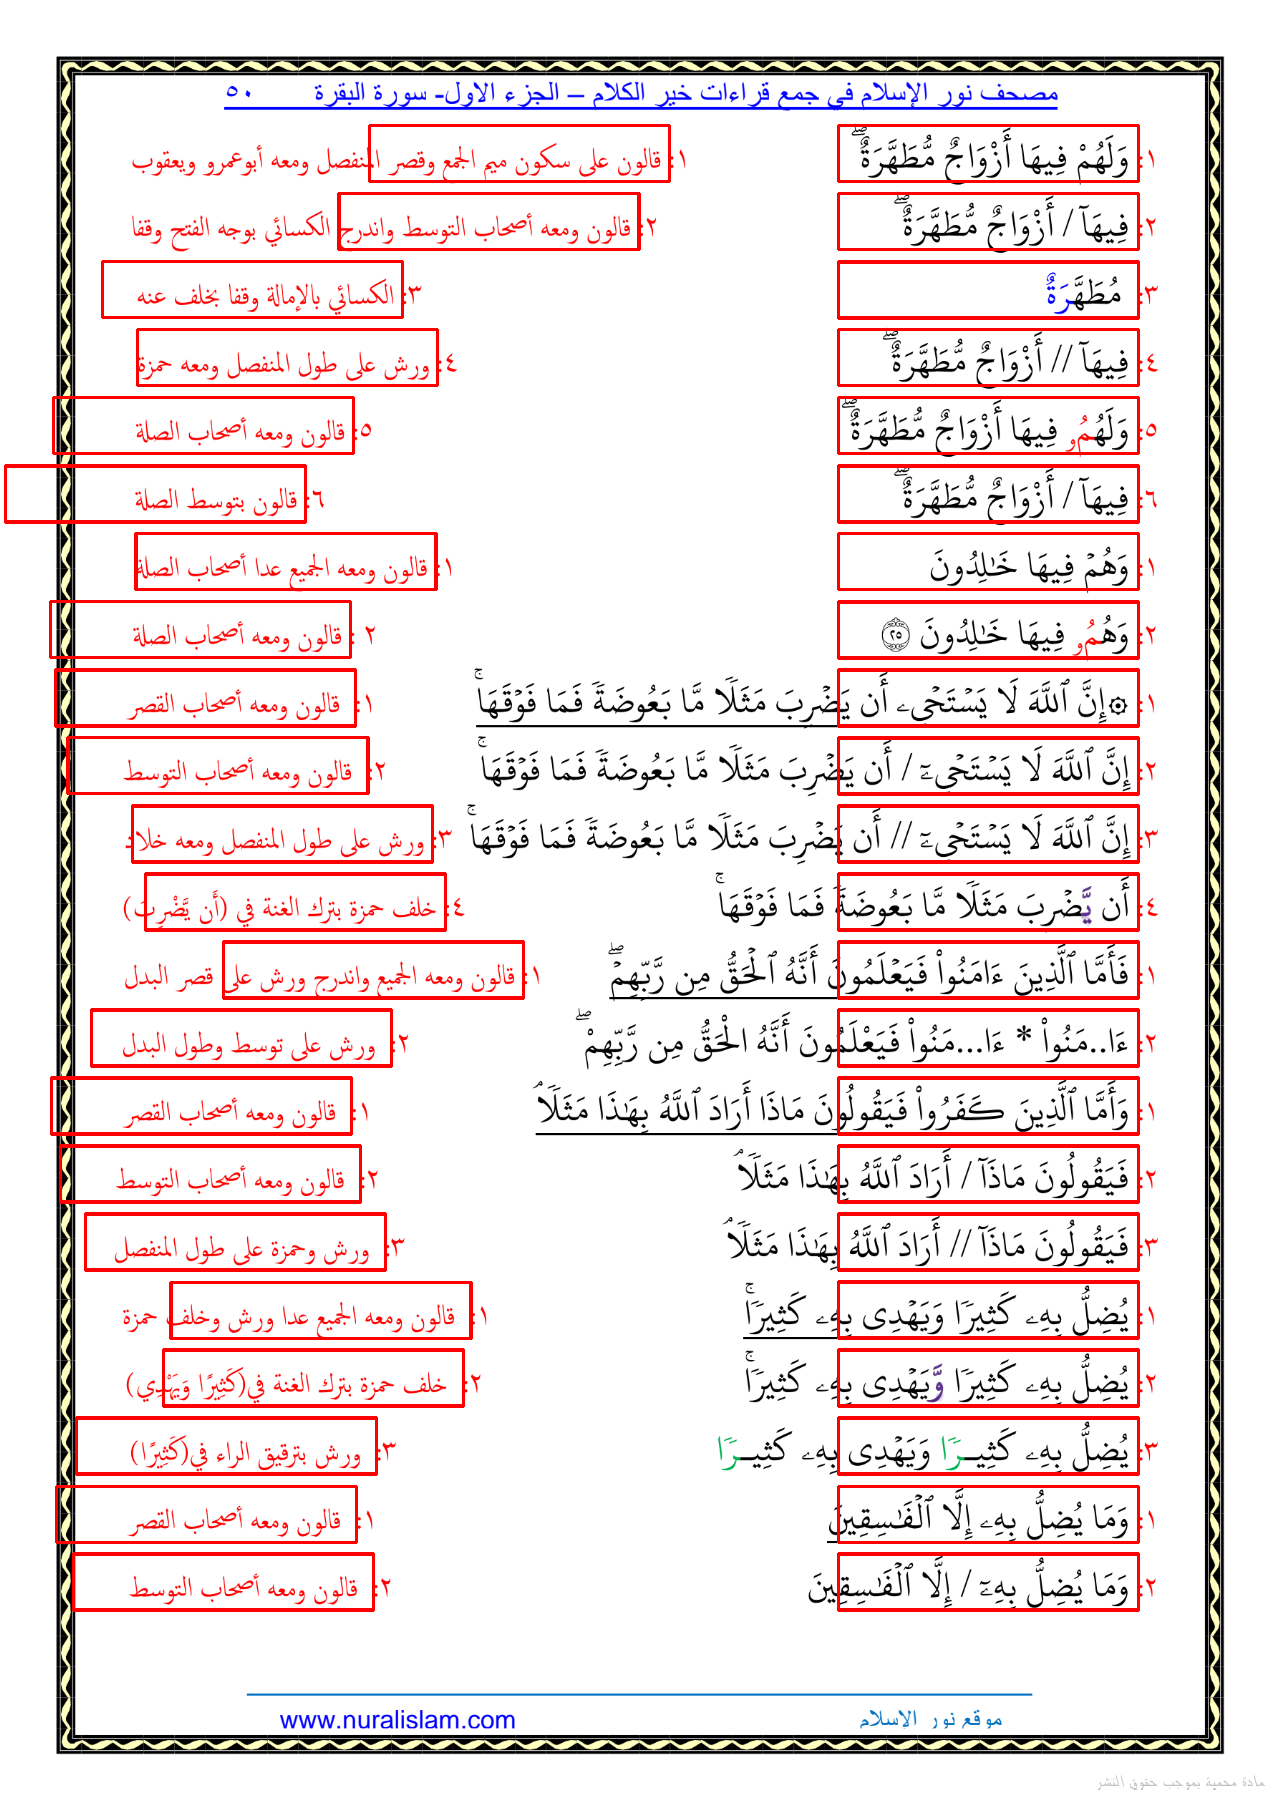
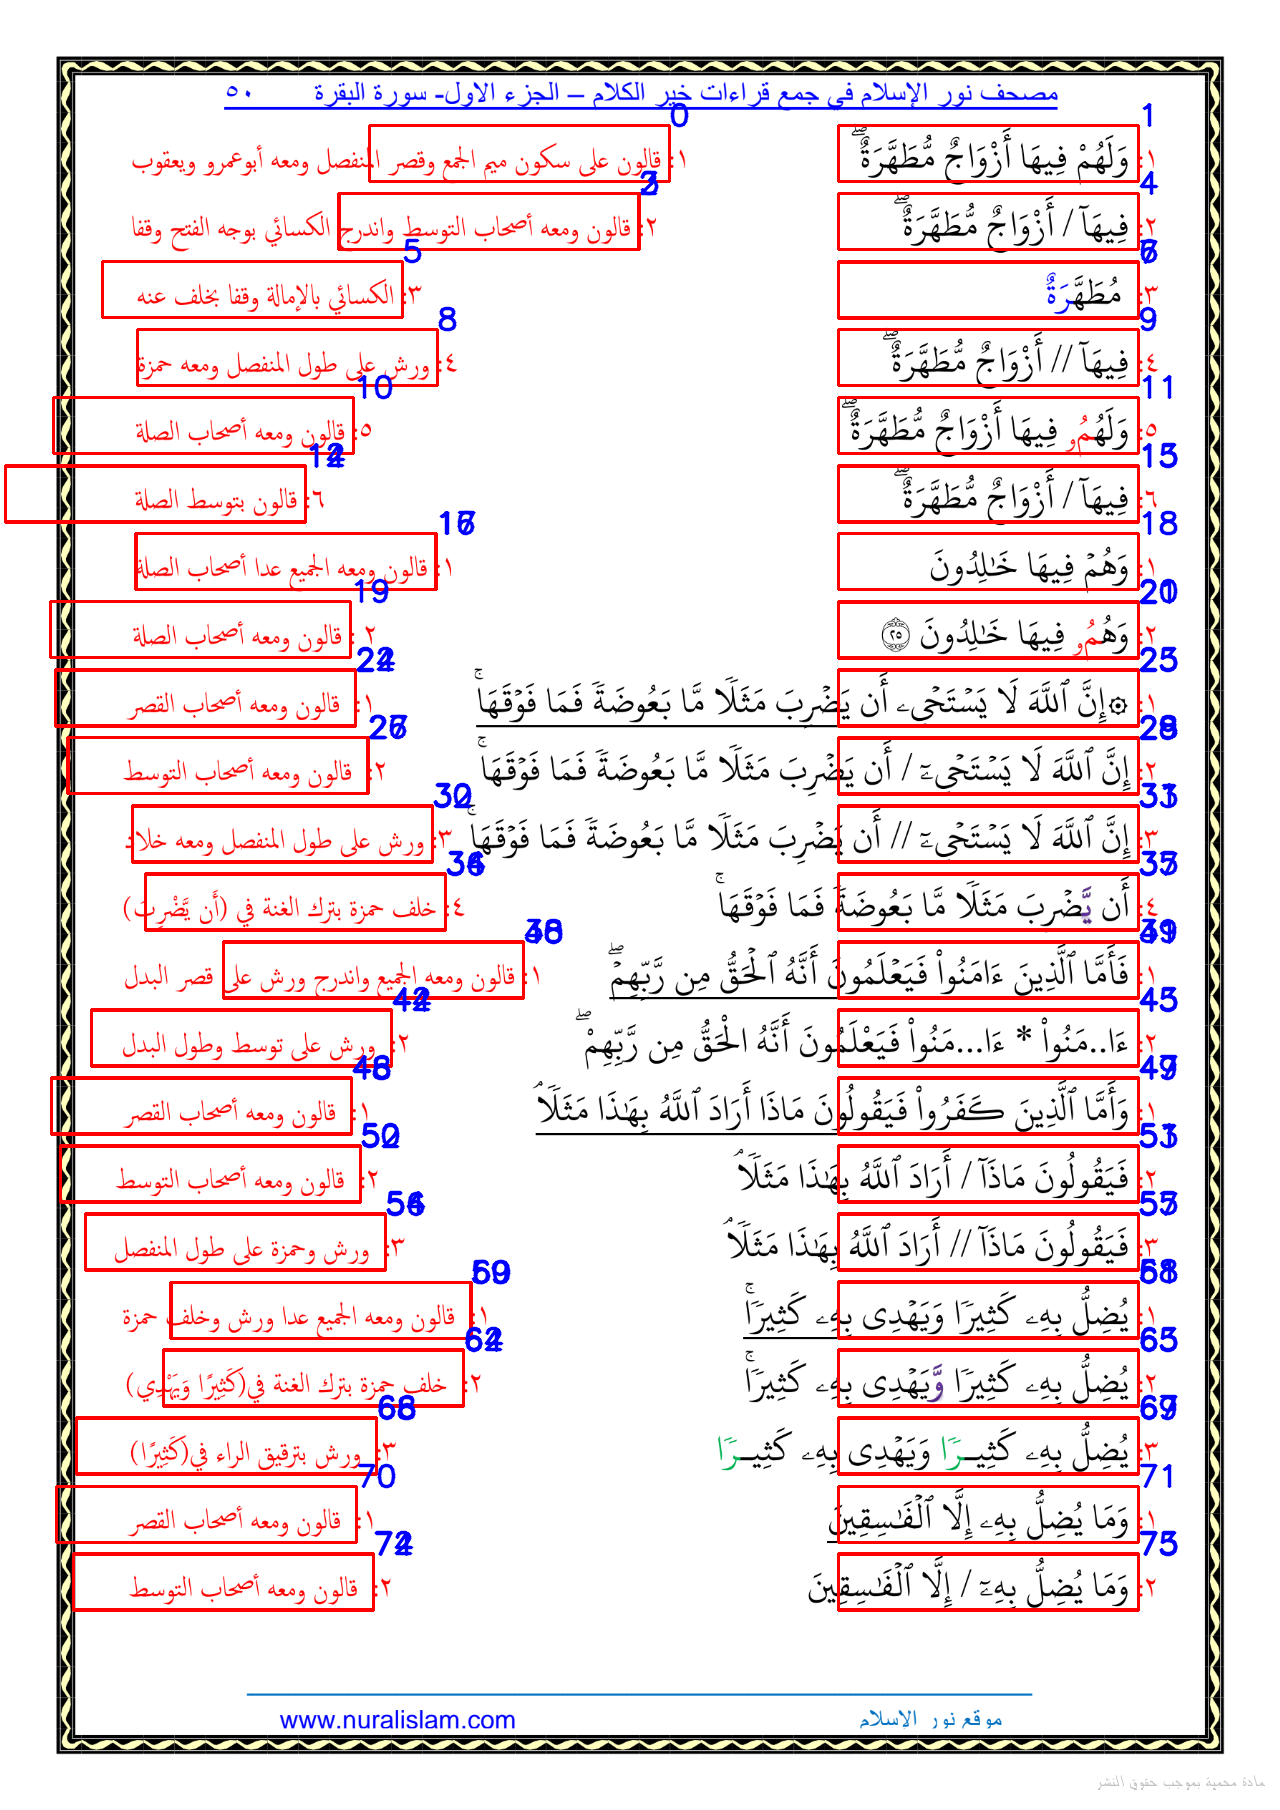
2nd commit

diff --git a/image_finder.py b/image_finder.py
@@ -7,13 +7,36 @@ img_rgb = cv2.imread('original.png')
 template = cv2.imread('small_template.png')
 w, h = template.shape[:-1]
 
+
+# font 
+font = cv2.FONT_HERSHEY_SIMPLEX 
+  
+# org 
+org = (50, 50) 
+  
+# fontScale 
+fontScale = 1
+   
+# Blue color in BGR 
+color = (255, 0, 0) 
+  
+# Line thickness of 2 px 
+thickness = 2
+
 print(w,h)
 res = cv2.matchTemplate(img_rgb, template, cv2.TM_CCOEFF_NORMED)
 threshold = .8
 loc = np.where(res >= threshold)
+i=0
 for pt in zip(*loc[::-1]):# Switch columns and rows
      newpt = tuple(map(operator.sub, pt, (0,30)))
      cv2.rectangle(img_rgb, newpt, (pt[0] - 300, pt[1] + w+10), (0, 0, 255), 2)
+     cv2.putText(img_rgb, str(i), newpt, font,  
+                   fontScale, color, thickness, cv2.LINE_AA)
+     i=i+1
+     
+          
+     
 #   cv2.rectangle(img_rgb, pt, (pt[0] - h, pt[1] + w), (0, 0, 255), 2)
 # cv2.circle(img_rgb, pt,20,(0, 0, 255),2)
 cv2.imwrite('result.png', img_rgb)
